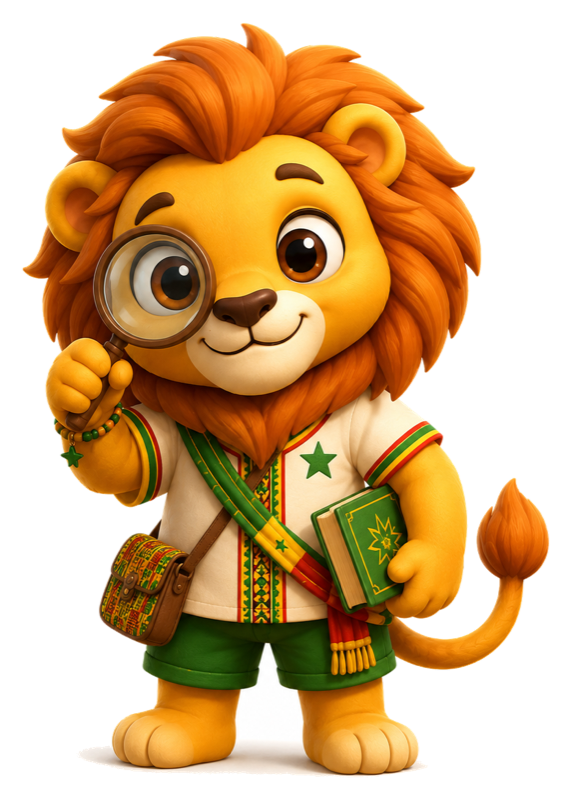
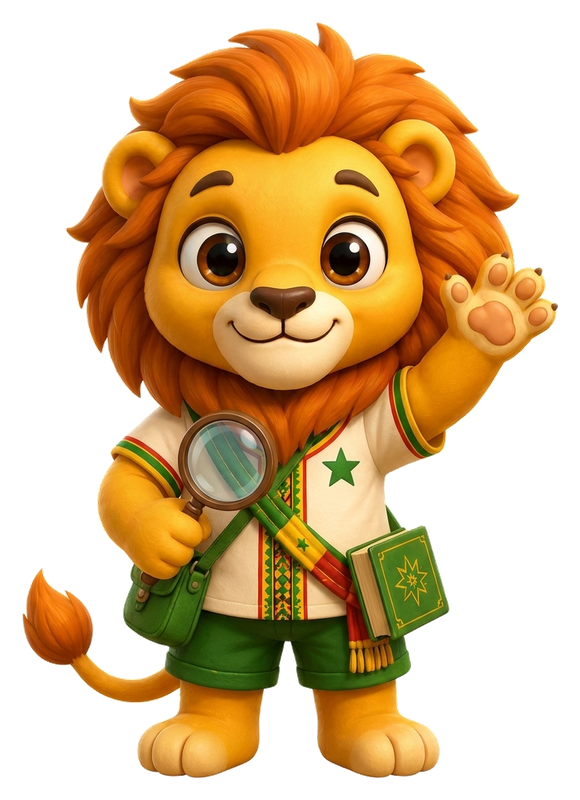
feat(student): les 8 poses distinctes de Pio v4 l'explorateur
Higgsfield ré-authentifié → les 7 poses manquantes sont générées depuis
la référence officielle (identité verrouillée : loupe, chemise à l'étoile
verte, sacoche, livre dans chaque pose) puis détourées localement
(flood-fill validé) :

- hello : salut de la patte, loupe dans l'autre
- cheer : bras levés, rire, yeux fermés de joie
- sad : serre son livre contre lui, oreilles baissées (réconfort)
- amazed : pattes sur les joues, waouh
- encourage : pouce levé + clin d'œil
- think : LA pose signature — il regarde à travers sa loupe
- sleep : endormi assis, blotti sur son livre, loupe posée à côté

Chaque état de l'app (hub, session, dialogs, erreurs, loader) affiche
désormais sa vraie pose au lieu de la pose unique provisoire.

diff --git a/components/student/pio.tsx b/components/student/pio.tsx
@@ -13,9 +13,10 @@ import { cn } from "@/lib/utils";
  * - c'est CET avatar qui incarne Pio partout, modales et dialogs inclus ;
  * - AUCUNE animation du corps.
  *
- * Les 8 états pointent pour l'instant vers la même pose v4 (les variantes
- * de poses pourront être régénérées depuis la référence quand Higgsfield
- * sera ré-authentifié). Le composant rend uniquement la pose courante.
+ * Les 8 états sont des poses distinctes générées depuis la référence
+ * (« EXACT same character », fond blanc, détourage local flood-fill) —
+ * l'explorateur garde sa loupe, sa chemise à l'étoile et sa sacoche dans
+ * chaque pose. Le composant rend uniquement la pose courante.
  */
 
 export type PioState =
